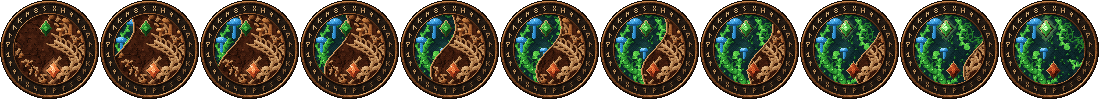
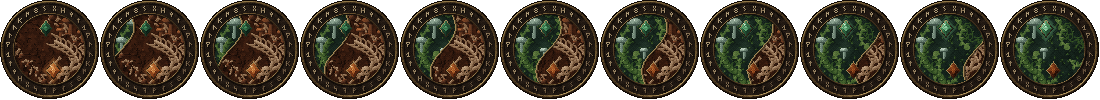
feat: G/D medallion and symbiont pods in moss and rust
The medallion and the pods were the most saturated things on screen
(electric blue fungi, bright green moss, a violet cavity) next to the
muted scenes and the jungle menu. Recoloured from the menu skins'
palettes: moss and a dusk slate on the Growth side with pale mycena caps
instead of blue ones, rust and earth on the Decay side, a weathered
bronze rim, jade and oxide gems; the pods' cavity dark moss, their lip
rust, the veins a muted mint. The drawing itself is unchanged.

Changed region(s): [[0.0, 0.0, 1.0, 0.99]]

diff --git a/tools/artgen/gd_medallion.py b/tools/artgen/gd_medallion.py
@@ -17,18 +17,18 @@ W = 100
 CX = CY = 49.5
 R_OUT, R_RIM, R_BAND, R_IN = 49.0, 46.0, 36.6, 35.0          # outer edge / rim to rune band / band to inner rim / field
 
-COPPER = ramp('#180c06 #2a160c #422412 #5c341a #784622 #94592c #ae6e3a #c6884e #dca66c #f0c894')
+COPPER = ramp('#140e0a #21180f #302315 #40301c #523e24 #66502e #7a6239 #8e7546 #a48a58 #bea36e')   # weathered bronze
 BAND   = ramp('#0e0a08 #16100c #201812 #2a2018 #34281e')
-RUNE   = ramp('#5a3a1e #7e5630 #a07446 #c0925e #d8b07a')
-TEAL   = ramp('#061618 #0a2022 #0f2a2c #143536 #1a4240 #214e4a')
-GREEN  = ramp('#0b2810 #113e18 #185820 #217428 #2c9030 #3cae3a #5aca48 #88e464 #c0f890')
-BLUEM  = ramp('#0a2240 #0f365e #165082 #1e6ca8 #2c8ccc #4cace6 #7ccaf6 #bceaff')
-EARTH  = ramp('#1a0b05 #281108 #37180c #462010 #562816 #66321c #763d24')
-BONE   = ramp('#2a1508 #482814 #6a3e22 #8c5a34 #aa7748 #c4935e #d8ae7c #e8c89c')
-DRYF   = ramp('#2a1408 #482410 #6a3818 #8c4e24 #ac6632 #c88446 #e0a666 #f2c890')
+RUNE   = ramp('#4a3a26 #64503a #7e6a4e #988462 #b09c78')
+TEAL   = ramp('#0c1410 #111c16 #16241c #1c2c22 #223428 #283c2e')                                   # dusk behind the moss
+GREEN  = ramp('#121c0e #1a2a14 #22381a #2c4620 #385426 #46622e #567038 #6a8044 #829456')            # moss (the menu's jungle)
+BLUEM  = ramp('#1e2620 #2c3a32 #3e5046 #54685c #6e8474 #8aa08e #a8bcaa #cad8c8')                    # pale mycena caps
+EARTH  = ramp('#160b06 #22110a #2e170d #3a1d10 #462413 #522b17 #5e331c')
+BONE   = ramp('#24160c #3a2616 #523822 #6a4c32 #826246 #9a7a5c #b29474 #c8ae90')
+DRYF   = ramp('#1a0e08 #2a1810 #3c2216 #54301e #6a3c22 #7e4628 #96562e #b06a3a')                    # rust (the menu's rust skin)
 ROOT   = ramp('#120804 #1e0e08 #2c160c')
-GEMG   = ramp('#0a2410 #103a16 #1a5a20 #26802c #3aa63a #5ccc50 #9ae880 #d8ffc8 #f6fff0')
-GEMA   = ramp('#2a0c06 #4a160a #742412 #a0381a #c85226 #e8743a #f8a060 #ffcc98 #fff0e0')
+GEMG   = ramp('#0c1c14 #12281c #1a3a28 #245034 #326a44 #468a5a #64aa78 #92caa0 #d0ecd8')            # jade
+GEMA   = ramp('#1e0c06 #36160a #52220e #6e3214 #8a441c #a65a28 #c0763a #d89a5c #f0c69a')            # oxide
 EDGE   = (16, 9, 5)
 BAYER = [[0, 8, 2, 10], [12, 4, 14, 6], [3, 11, 1, 9], [15, 7, 13, 5]]
 nA, nB, nC = make_noise(3, 701, 120, 120), make_noise(7, 702, 120, 120), make_noise(2, 703, 120, 120)

diff --git a/tools/artgen/pal_symb.py b/tools/artgen/pal_symb.py
@@ -5,9 +5,9 @@ from common import hx, ramp, INK
 CORD   = ramp('#2a281e #4a4634 #77715a #a8a084 #d2ccb0')                    # mycelial cord
 HUSK   = ramp('#120e0a #1f1810 #2f2518 #433522 #5a482e #73603c #8f7a4e #ab9564')  # pod husk (open)
 DRY    = ramp('#100e0c #1c1915 #2a2620 #3a352c #4c463a #615a4a #7a7260')    # sealed, shrivelled pod
-CAV    = ramp('#07040a #100a16 #1a1022 #2a1a36 #3d2a4c')                    # pod cavity
-VEIN   = ramp('#143a22 #1f5a32 #3f8f5a #7fff8e')                            # bioluminescent veins
-LIP    = ramp('#2a1424 #4a2238 #6e3a4e #8e5464')                            # inner lip of the pod
+CAV    = ramp('#06070a #0b0f0c #111811 #182216 #212d1c')                    # pod cavity (dark moss)
+VEIN   = ramp('#13281e #1e3e2c #3a6e52 #7cc4a0')                            # veins (muted mint)
+LIP    = ramp('#24140c #3e2214 #5a341e #74482a')                            # inner lip of the pod (rust)
 WAX    = ramp('#3a0a0e #6e1420 #a8283a #d24a52')                            # registration seal
 
 BRUISE = ramp('#1e0f1c #35182f #52243f #723451 #934a62 #b86e7a #d898a0')    # Thorne-Still
